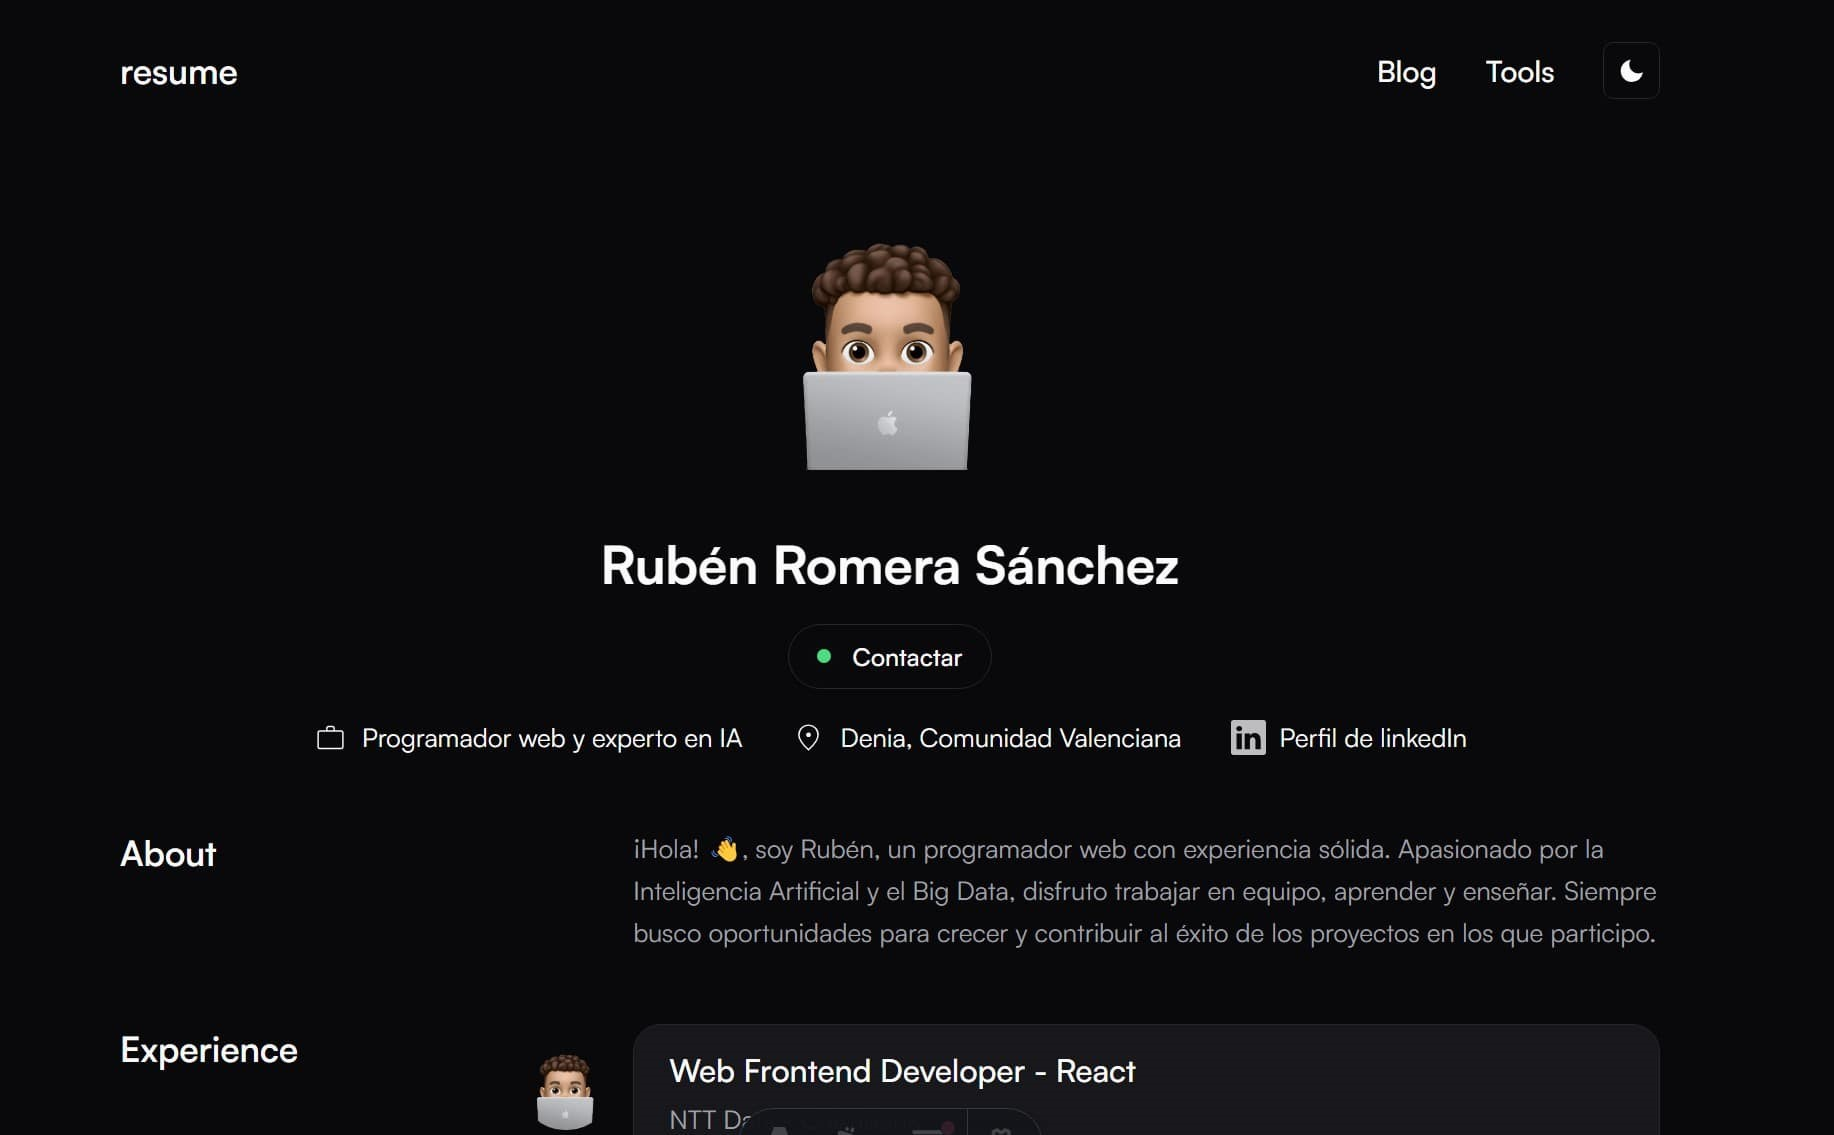
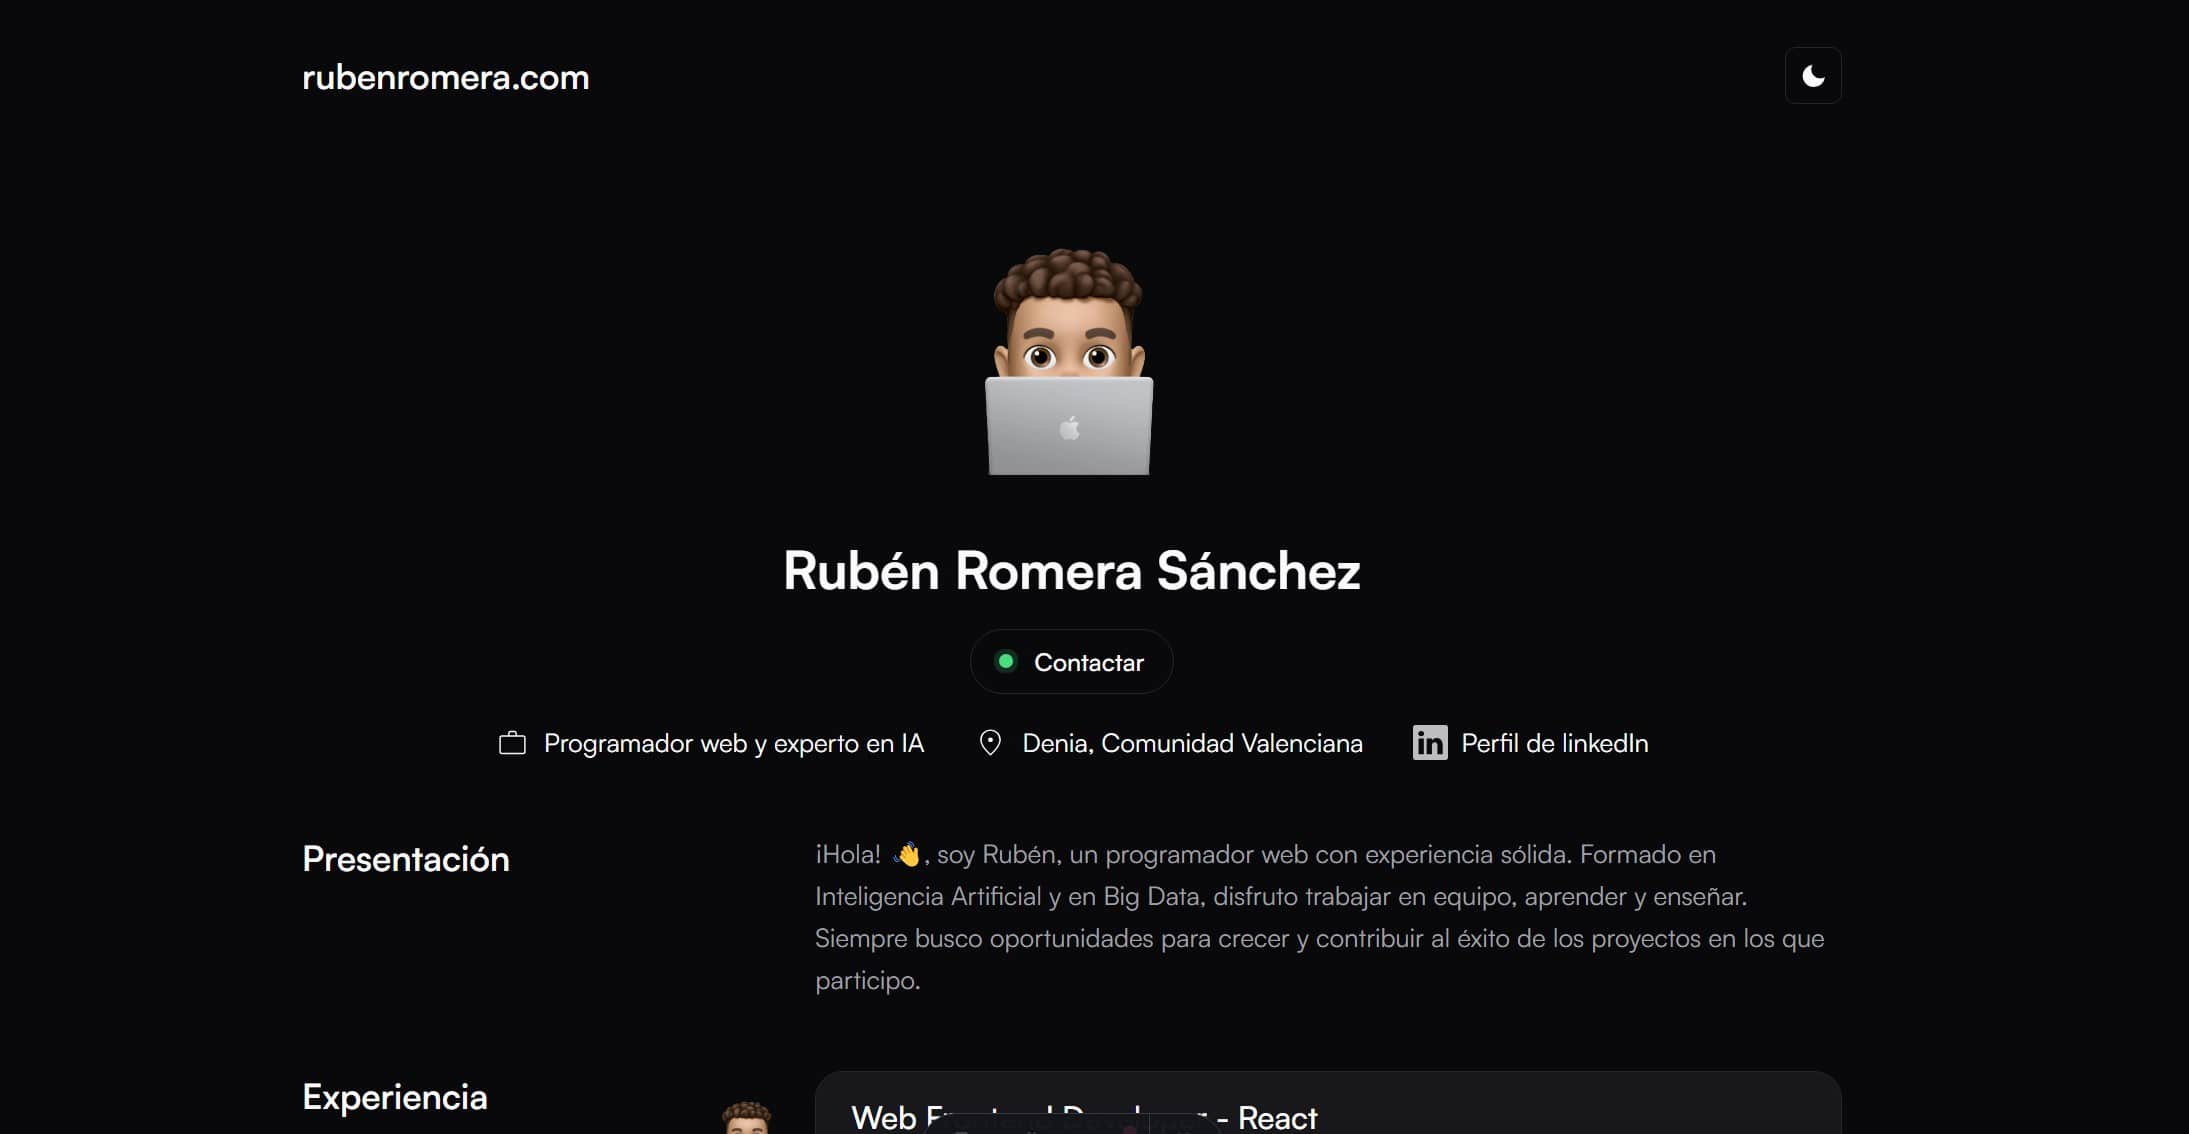
Nuevos datos insertados

diff --git a/src/site.config.ts b/src/site.config.ts
@@ -3,18 +3,18 @@ import type { AstroExpressiveCodeOptions } from 'astro-expressive-code'
 
 export const siteConfig: SiteConfig = {
 	// Used as both a meta property (src/components/BaseHead.astro L:31 + L:49) & the generated satori png (src/pages/og-image/[slug].png.ts)
-	author: 'SRLEOM',
+	author: 'Romera02rrs',
 	// Meta property used to construct the meta title property, found in src/components/BaseHead.astro L:11
-	title: 'astro-theme-resume',
+	title: 'rubenromera.com',
 	// Meta property used as the default description meta property
-	description: 'The official Astro Resume Theme',
+	description: 'El perfil de Rubén Romera',
 	// HTML lang property, found in src/layouts/Base.astro L:18
-	lang: 'en-GB',
+	lang: 'es',
 	// Meta property, found in src/components/BaseHead.astro L:42
-	ogLocale: 'en_GB',
+	ogLocale: 'es',
 	// Date.prototype.toLocaleDateString() parameters, found in src/utils/date.ts.
 	date: {
-		locale: 'en-GB',
+		locale: 'es',
 		options: {
 			day: 'numeric',
 			month: 'short',
